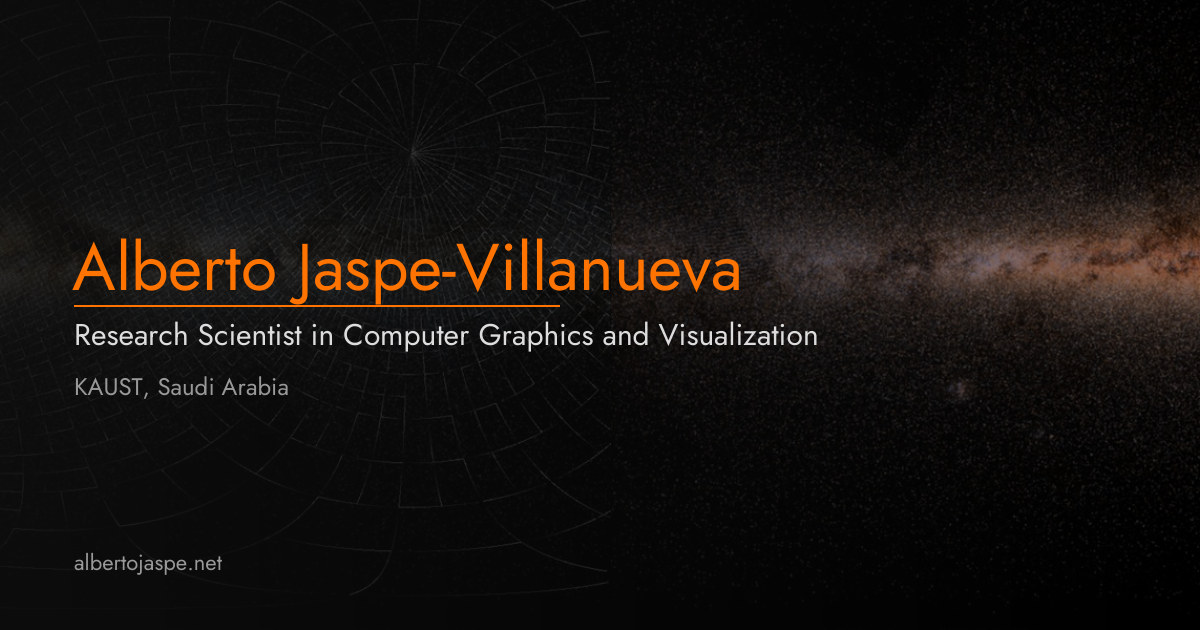
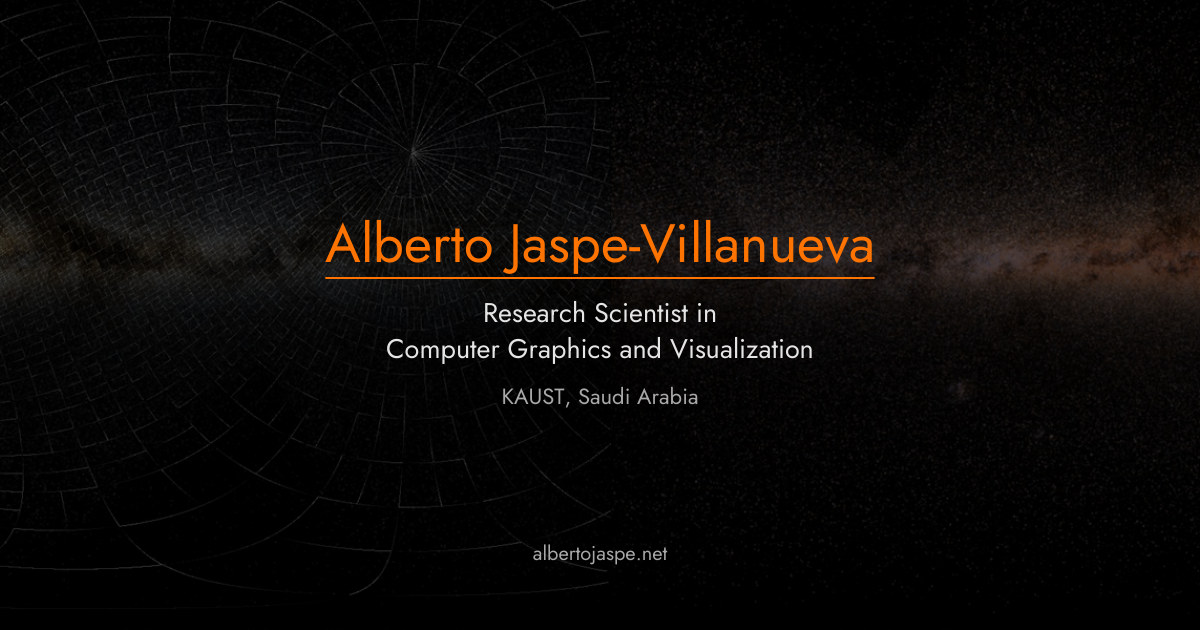
Share card redrawn with everything inside the central square (WhatsApp crops to it); image sizes declared in the preview tags

diff --git a/_layouts/default.html b/_layouts/default.html
@@ -48,6 +48,14 @@
     <meta property="og:title" content="{{ this_title | escape }}">
     <meta property="og:description" content="{{ description | escape }}">
     <meta property="og:image" content="{{ share_img_abs }}">
+{%- comment -%} Declared sizes help WhatsApp show the large preview; only for images whose size is known. {%- endcomment -%}
+{%- if page.code %}
+    <meta property="og:image:width" content="900">
+    <meta property="og:image:height" content="600">
+{%- elsif share_img == "/assets/img/thumb_site.jpg" or share_img == "/assets/img/thumb_calendar.jpg" or share_img == "/assets/img/thumb_guide.jpg" %}
+    <meta property="og:image:width" content="1200">
+    <meta property="og:image:height" content="630">
+{%- endif %}
     <meta property="og:locale" content="en_US">
     <meta name="twitter:card" content="summary_large_image">
     <meta name="twitter:site" content="@albertojaspe">
